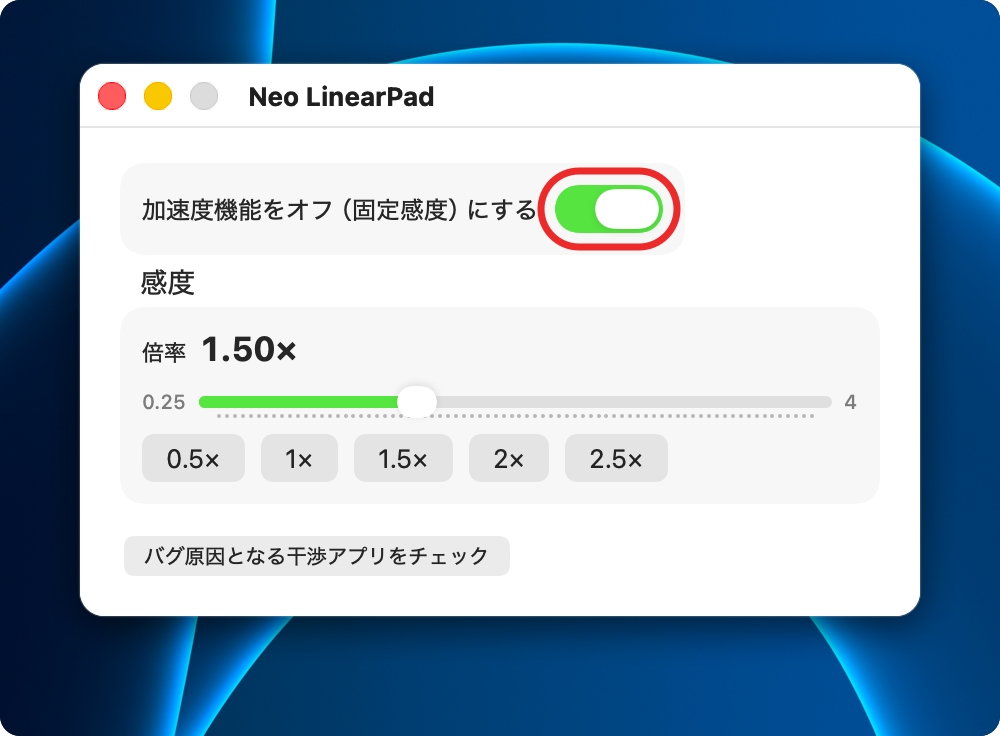
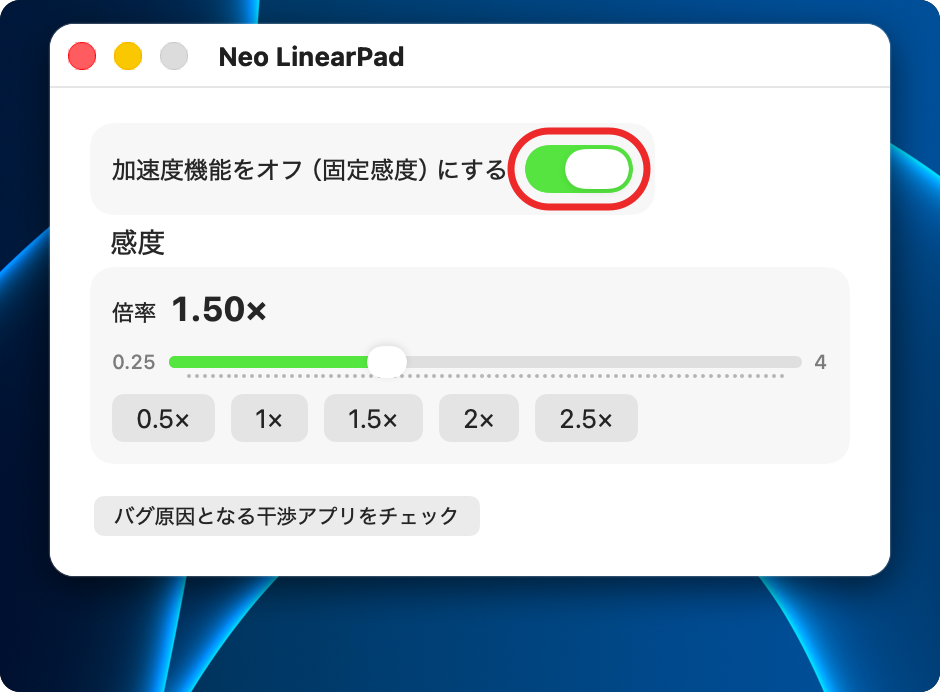
Install step 5: smaller top margin, zoomed in

diff --git a/en/index.html b/en/index.html
@@ -59,7 +59,7 @@
             </li>
             <li>Click the <span class="notranslate" translate="no">Neo LinearPad</span> icon in the menu bar at the top right of the screen, then turn on the switch.
               <img src="../assets/guide/install-5-menubar.png?v=5" alt="The menu bar icon" loading="lazy">
-              <img src="../assets/guide/en/install-5-switch.png?v=2" alt="Turning on the switch" loading="lazy">
+              <img src="../assets/guide/en/install-5-switch.png?v=3" alt="Turning on the switch" loading="lazy">
             </li>
           </ol>
         </div>

diff --git a/ja/index.html b/ja/index.html
@@ -60,7 +60,7 @@
             </li>
             <li>PC右上に出るアイコンをクリックし、スイッチをオンにします。
               <img src="../assets/guide/install-5-menubar.png?v=5" alt="メニューバーのアイコン" loading="lazy">
-              <img src="../assets/guide/install-5-switch.png?v=7" alt="スイッチをオンにする" loading="lazy">
+              <img src="../assets/guide/install-5-switch.png?v=8" alt="スイッチをオンにする" loading="lazy">
             </li>
           </ol>
         </div>
